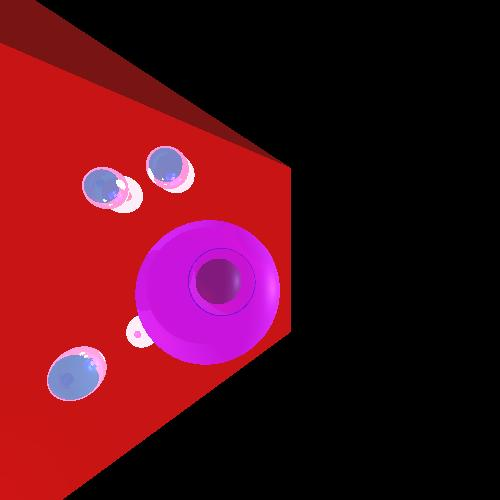
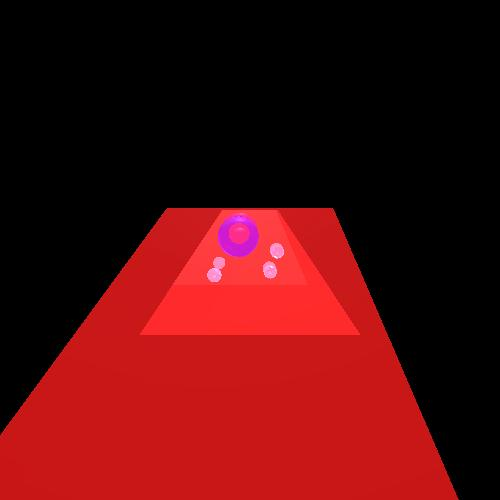
hi

diff --git a/AllLevels/src/AdditionalTests/OtherCameraSettings.java b/AllLevels/src/AdditionalTests/OtherCameraSettings.java
@@ -1,4 +1,4 @@
-package UnitTests;
+package AdditionalTests;
 
 import java.awt.Color;
 import org.junit.Test;
@@ -18,37 +18,63 @@ import renderer.Render;
 import scene.Scene;
 
 
-public class IzakTest {
+public class OtherCameraSettings {
 	@Test
 	public void test() throws Exception {
 
+		
+		String FileName = "DiffCameraTest1";
 		Scene scene = new Scene();
 		scene.setCamera(new Camera(new Point3D(0,0,0),
 								   new Vector(0,1,0),
 								   new Vector(0,0,1)));
      	scene.setScreenDistance(250);
 
-//	**************************** Background  **********************************   	
+//	**************************** Background  **********************************   	//
      	
-     	Quadrangle q1 = new Quadrangle(new Point3D(-1200,-1200, 700), // left-down corner
-     								   new Point3D( 800, -1200, 700),//right-down corner 
-     					 			   new Point3D( 200, 100, 600), // right-up corner
-     					 			   new Point3D( -200, 100, 600));// left-up corner
-     	q1.setEmmission(new Color(200,20,20));
-     	q1.setShininess(10);
-     	q1.setKr(0.9);
-     	q1.setKt(0);
-     	scene.addGeometry(q1);
+     	Quadrangle qFloor = new Quadrangle(new Point3D(-600,-600, 200), // left-down corner
+     								   new Point3D( 600, -600, 200),//right-down corner 
+     					 			   new Point3D( 200, 100, 500), // right-up corner
+     					 			   new Point3D( -200, 100, 500));// left-up corner
+     	qFloor.setEmmission(new Color(200,20,20));
+     	qFloor.setShininess(10);
+     	qFloor.setKr(0);
+     	qFloor.setKt(0);
      	
-     	Quadrangle q11 = new Quadrangle(new Point3D(  900, -900, -700), // left-down corner
-     									new Point3D( -900, -900, -700),//right-down corner 
-     									new Point3D( -200,  100, -600), // right-up corner
-     									new Point3D(  200,  100, -600));// left-up corner
-     	q11.setEmmission(new Color(120,20,20));
-     	q11.setShininess(10);
-     	q11.setKr(0.9);
-     	q11.setKt(0);
-     	scene.addGeometry(q11);
+     	Quadrangle qLeftWall = new Quadrangle(new Point3D( -600, 600, 200), // left-up corner
+     									new Point3D( -600, -600, 200),//right-down corner 
+     									new Point3D( -200,  90, 500), // right-up corner
+     									new Point3D(  -200,  200, 500));// left-up corner
+     	qLeftWall.setEmmission(new Color(60,20,60));
+     	qLeftWall.setShininess(10);
+     	qLeftWall.setKr(1);
+     	qLeftWall.setKt(0.2);
+     	
+     	
+     	
+     	Quadrangle qOppWall=new Quadrangle(new Point3D( -200, 200, 500), // left-up corner
+     									   new Point3D( -200, -200, 500),//right-down corner 
+     									   new Point3D( 200,  -200, 500), // right-up corner
+     									   new Point3D(  200,  200, 500));// left-up corner
+     	qOppWall.setEmmission(new Color(255,255,255));
+     	qOppWall.setShininess(30);
+     	qOppWall.setKr(0.2);
+     	qOppWall.setKt(0.2);
+
+     	Quadrangle qRoof=new Quadrangle(new Point3D( -600, 600, 200), // left-up corner
+     									new Point3D(  600,  600, 200),// left-up corner
+     									new Point3D(  200, -200, 500),//right-down corner 
+     									new Point3D(  200,  200, 500)); // right-up corner
+     	qRoof.setEmmission(new Color(60,20,60));
+     	qRoof.setShininess(10);
+     	qRoof.setKr(1);
+     	qRoof.setKt(0.2);
+
+//     	scene.addGeometry(qRoof);
+     	scene.addGeometry(qOppWall);
+     	scene.addGeometry(qFloor);
+     	scene.addGeometry(qLeftWall);
+     	
      	
 //**************************** Spheres  ********************************** //
      	
@@ -74,36 +100,37 @@ public class IzakTest {
      	s41.setKt(0.1);
      
      	// main blue circle
-		Sphere blueBig = new Sphere(140, new Point3D(-80, -80, -500));
+		Sphere blueBig = new Sphere(70, new Point3D(0, 0, 450));
 		blueBig.setShininess(20);
-		blueBig.setEmmission(new Color(0, 0, 100));
-        blueBig.setKt(1);
+		blueBig.setEmmission(new Color(0, 0, 150));
+        blueBig.setKt(0);
+        blueBig.setKr(0);
 		
         // Inner little sphere 
-		Sphere purpleLittle = new Sphere(50, new Point3D(-70.0, -70.0, -550));
+		Sphere purpleLittle = new Sphere(50, new Point3D(0, 0, 450));
 		purpleLittle.setShininess(10);
 		purpleLittle.setEmmission(new Color(100, 20, 20));
 		purpleLittle.setKt(0.3);
 
 		
 		scene.addGeometry(purpleLittle);
-		scene.addGeometry(s1);
-     	scene.addGeometry(s41);
-     	scene.addGeometry(s4);
+//		scene.addGeometry(s1);
+//     	scene.addGeometry(s41);
+//    	scene.addGeometry(s4);
 		scene.addGeometry(blueBig);
 	
 //*********************************** Lights  ********************************** //  
 		
 // Adding the light at the left down side of the picture
 		LightSource spotLeftLeft = new SpotLight(new Color(255, 100, 100), 
-												new Point3D(-200, -200, -700), 
+												new Point3D(-200, -200, -100), 
 												new Vector(1, 1, 1), 0.1, 
 												0.00001, 0.000005);
 		
 //  left down side of the picture
-		LightSource spotLeftDownCorner = new SpotLight(new Color(255, 0, 00), 
-													   new Point3D(-1500, -1500, -700), 
-													   new Vector(2 , 2, 1), 0.1, 
+		LightSource spotRightDownCorner = new SpotLight(new Color(255, 0, 00), 
+													   new Point3D(600, -300, 00), 
+													   new Vector(-2 , 1 , 1), 0.1, 
 													   0.00001, 0.000005);
 		
 //  right down side of the picture
@@ -118,8 +145,8 @@ public class IzakTest {
 												  new Vector(1, -1.5, 1.5), 0.1, 
 												  0.00001, 0.000005);
 // down Point Light	
-		LightSource pointLeftCenter = new PointLight(new Color(255, 100, 100),
-													 new Point3D(-1000, 00,-700), 
+		LightSource pointCenterUp = new PointLight(new Color(255, 100, 100),
+													 new Point3D(00, 300 , 350), 
 													 0, 0.00001, 0.000005);
 
 // down Point Light	
@@ -130,21 +157,21 @@ public class IzakTest {
 		LightSource dir = new DirectionalLight(new Color(255,0,120), new Vector(1,1,1));
 		
 		
+		scene.addLight(pointCenterUp);
+//		scene.addLight(spotRightDownCorner);
 //		scene.addLight(spotLeftLeft);
-		scene.addLight(spotLeftDownCorner);
-		//scene.addLight(spotRightDown);
-//		scene.addLight(pointLeftCenter);
-		scene.addLight(dir);
-		scene.addLight(spotMidCenter);
+//		scene.addLight(dir);
+//		//scene.addLight(spotRightDown);
+//		scene.addLight(spotMidCenter);
 //		scene.addLight(pointLeftUP);
 		
 		
 //************************************* Triangles  ********************************** //   		
   	
 		// mirror triangle
-		Triangle mirror1 = new Triangle(new Point3D(  1500, -1500, -1500),
-				 						 new Point3D( -1500,  1500, -1500),
-				 						 new Point3D(  200,  200, -375));
+		Triangle mirror1 = new Triangle(new Point3D(  1500, -1500, 300),
+				 						 new Point3D( -1500,  1500, 300),
+				 						 new Point3D(  200,  200, 375));
 		mirror1.setEmmission(new Color(20, 20, 20));
 		mirror1.setKr(1);
 		mirror1.setKt(0.5);
@@ -166,13 +193,14 @@ public class IzakTest {
 		mirror3.setKt(0);
 		
 		// base triangle
-		Triangle baseTriangle = new Triangle(new Point3D(  1500, -1500, -1500),
-										  new Point3D( -1500,  1500, -1500),
-										  new Point3D( -1500, -1500, -1500));
-		baseTriangle.setEmmission(new Color(60, 60, 60));
-		baseTriangle.setKr(0);
+		Triangle upPointLightBlockTriangle = new Triangle(new Point3D(  00,  200, 500),
+										  			      new Point3D( -100,200, 300),
+										  			      new Point3D( 100,200, 400));
+		upPointLightBlockTriangle.setEmmission(new Color(60, 60, 60));
+		//upPointLightBlockTriangle.setKr(0);
+		upPointLightBlockTriangle.setKt(0.5);
 
-//		scene.addGeometry(baseTriangle);
+//		scene.addGeometry(upPointLightBlockTriangle);
 //		scene.addGeometry(mirror2);
 //		scene.addGeometry(mirror3);
 //		scene.addGeometry(mirror1);
@@ -180,29 +208,16 @@ public class IzakTest {
 		
 //*********************************** Not in use  ********************************** //       	
 
-//     	Color [] colors = {
-//                new Color(32,178,170),
-//                new Color(60,179,119),
-//                new Color(70,130,180),
-//                new Color(70,130,180),
-//                new Color(34,140,34),
-//                new Color(0,255,0),
-//                new Color(255,255,0),
-//                new Color(107,142,35),
-//                new Color(0,0,128),
-//                new Color(100,144,237),
-//                new Color(0,191,255),
-//                new Color(32,178,170)
-//                };
      	
 //**************************** Rendering  ********************************** //     	
  
-     	ImageWriter imageWriter = new ImageWriter("AddTest1", 500, 500, 500, 500);
+     	ImageWriter imageWriter = new ImageWriter(FileName, 500, 500, 500, 500);
 		Render render = new Render(imageWriter,scene);
 		
 		render.renderImage();
-//		render.printGrid(50);
-		render.writeToImage();
-     	
+		render.writeToImage(); 
+
+		String path = render.getImageWriter().getRenderingDirectory();
+		Runtime.getRuntime().exec("explorer.exe /open, " + path+"\\" + FileName +".jpg");
 	}
 }

diff --git a/AllLevels/src/AdditionalTests/Code1.java b/AllLevels/src/AdditionalTests/Code1.java
@@ -168,24 +168,7 @@ public class Code1 {
 //		scene.addGeometry(mirror2);
 //		scene.addGeometry(mirror3);
 		scene.addGeometry(mirror1);
-		
-		
-//*********************************** Not in use  ********************************** //       	
 
-     	Color [] colors = {
-                new Color(32,178,170),
-                new Color(60,179,119),
-                new Color(70,130,180),
-                new Color(70,130,180),
-                new Color(34,140,34),
-                new Color(0,255,0),
-                new Color(255,255,0),
-                new Color(107,142,35),
-                new Color(0,0,128),
-                new Color(100,144,237),
-                new Color(0,191,255),
-                new Color(32,178,170)
-                };
      	
 //**************************** Rendering  ********************************** //     	
  

diff --git a/AllLevels/src/scene/Scene.java b/AllLevels/src/scene/Scene.java
@@ -8,6 +8,7 @@ import elements.AmbientLight;
 import elements.Camera;
 import elements.LightSource;
 import geometries.Geometry;
+import primitives.MyColor;
 public class Scene {
 
 	String _sceneName = "scene";
@@ -53,9 +54,7 @@ public class Scene {
 	//****************************** Getters / Setters *******************//
 
 	public Color getBackground() {
-		return new Color(this._background.getRed(),
-					   	 this._background.getGreen(),
-						 this._background.getBlue());
+		return MyColor.copyColor(this._background);
 	}
 	public AmbientLight getAmbientLight() {
 		return new AmbientLight(this._ambientLight);

diff --git a/AllLevels/src/UnitTests/CameraTest.java b/AllLevels/src/UnitTests/CameraTest.java
@@ -1,17 +1,22 @@
 package UnitTests;
 
-import static org.junit.Assert.*;
+import static org.junit.Assert.assertEquals;
+import static org.junit.Assert.assertTrue;
+import static org.junit.Assert.fail;
+
+import java.util.ArrayList;
+import java.util.List;
+
 import org.junit.Test;
 
 import elements.Camera;
-import geometries.*;
+import geometries.Plane;
+import geometries.Sphere;
+import geometries.Triangle;
 import primitives.Point3D;
 import primitives.Ray;
 import primitives.Vector;
 import renderer.ImageWriter;
-
-import java.awt.Color;
-import java.util.*;
 
 public class CameraTest {
     @Test

diff --git a/AllLevels/src/elements/Camera.java b/AllLevels/src/elements/Camera.java
@@ -14,7 +14,7 @@ public class Camera {
 		this._P0 = new Point3D(0,0,10);
 		_vUp = new Vector(1,0,0);
 		_vTo = new Vector(0,0,-1);
-		_vRight = _vUp.crossProduct(_vTo);//(-1,0,0)
+		_vRight = _vUp.crossProduct(_vTo);//(0,1,0)
 	}
 	//Copy Constructor
 	public Camera(Camera camera) throws Exception

diff --git a/AllLevels/src/geometries/Geometry.java b/AllLevels/src/geometries/Geometry.java
@@ -29,7 +29,7 @@ public abstract class Geometry {
 	public Material getMaterial() { return new Material(_material); }
 	
 	public void setEmmission(Color emmission) 
-	{this._emmission = MyColor.copyColor(emmission);}
+	{ this._emmission = MyColor.copyColor(emmission); }
 	
 	/**
 	 * 
